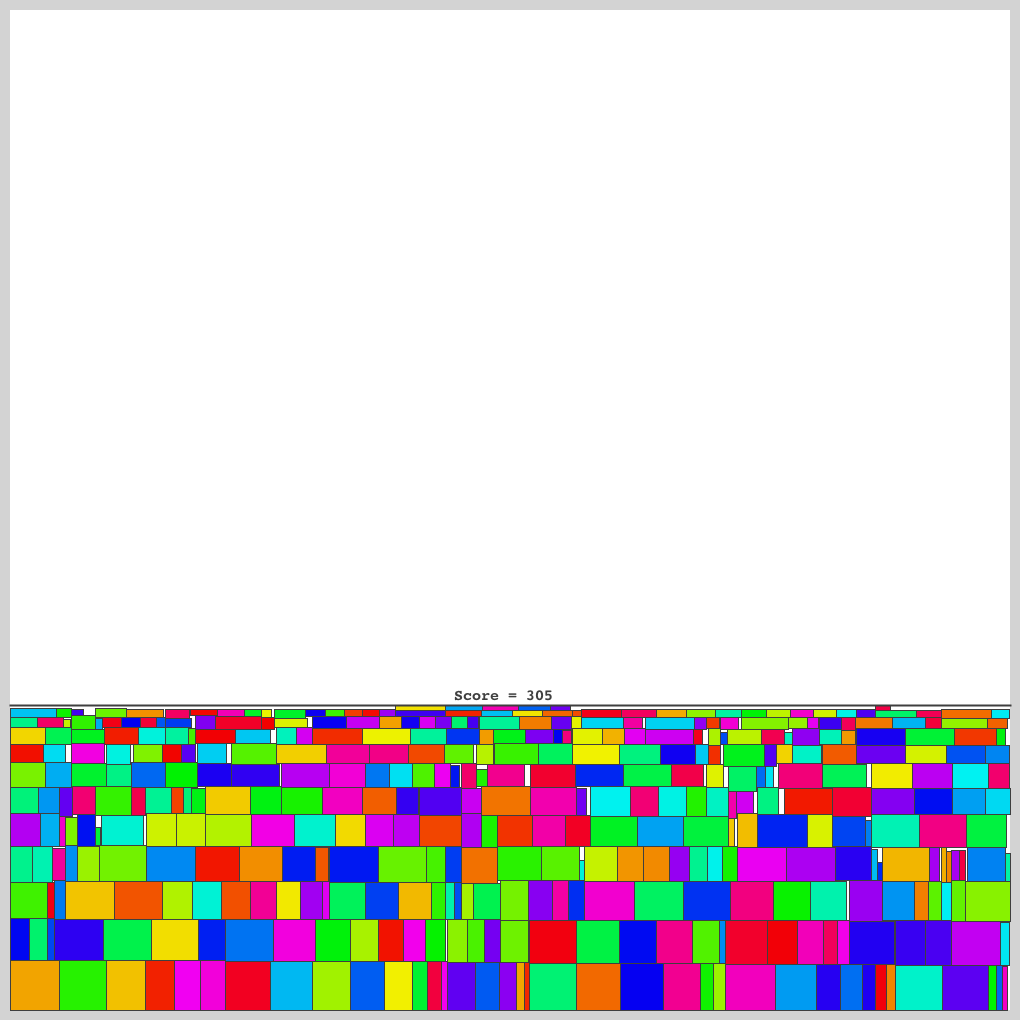
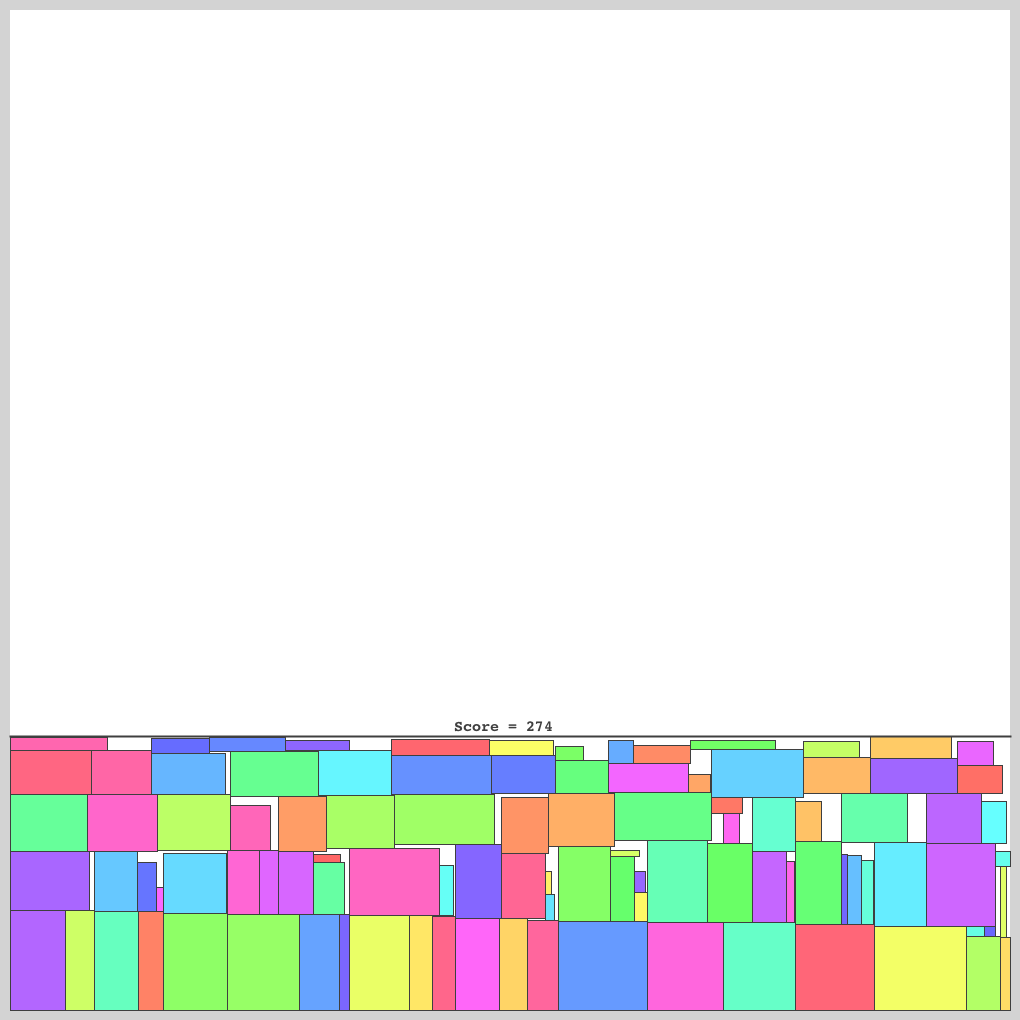
Update Constraints of RPP

Changed region(s): [[0.0, 0.6686, 1.0, 1.0]]

diff --git a/RectanglePacking/tester/Visualizer.java b/RectanglePacking/tester/Visualizer.java
@@ -81,7 +81,7 @@ public class Visualizer extends JFrame
 
         /* Draw rectangles */
         for (int i = 0; i < input.N; i++) {
-            Color c = Color.getHSBColor((1.0f / (float)input.N) * (float)i, 1.0f, 0.95f);
+            Color c = Color.getHSBColor((1.0f / (float)input.N) * (float)i, 0.60f, 1.0f);
             g2.setColor(c);
             g2.fillRect(output.posX[i], HEIGHT - output.posY[i] - input.h[i], input.w[i], input.h[i]);
             g2.setColor(new Color(0x3F3F3F));

diff --git a/RectanglePacking/tester/InputData.java b/RectanglePacking/tester/InputData.java
@@ -3,8 +3,8 @@ import java.security.*;
 
 public class InputData
 {
-    final int N = 400;
-    final int RECT_MAX = 50;
+    final int N = 100;
+    final int RECT_MAX = 100;
     final int RECT_MIN = 5;
 
     final int[] h;

diff --git a/RectanglePacking/README.md b/RectanglePacking/README.md
@@ -5,9 +5,9 @@
 
 <h4>制約</h4>
 <ul>
-<li>$N = 400$</li>
-<li>$5 \leqq w_{i}, h_{i} \leqq 50$</li>
-<li>$与えられた 400 個の長方形は必ず 1000 × 1000の箱の中に収まる$</li>
+<li>$N = 100$</li>
+<li>$5 \leqq w_{i}, h_{i} \leqq 100$</li>
+<li>与えられた$100$個の長方形は必ず$1000×1000$の箱の中に収まる</li>
 </ul>
 
 <h4>入力</h4>
